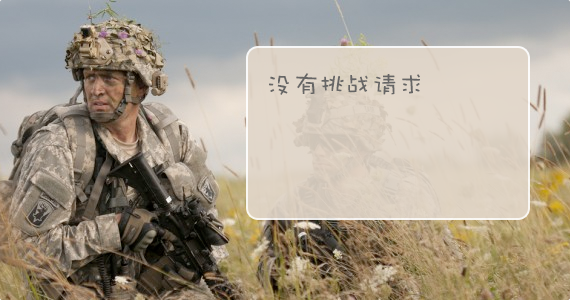
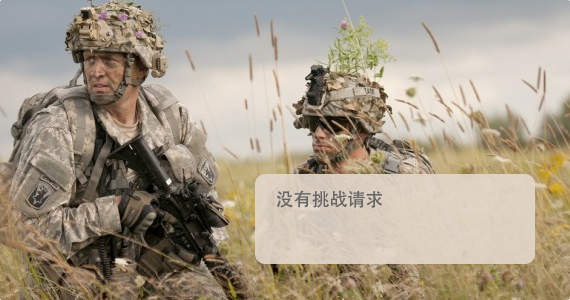
修改活动都没有时的图片

diff --git a/public/css/userpage.css b/public/css/userpage.css
@@ -719,8 +719,8 @@
 }
 .user_page .dl_container .main .campaigns_container .recent_unjoin .no_campaign .no_campaign_tip {
   position: absolute;
-  bottom: 30px;
-  left: 75px;
+  bottom: 32px;
+  left: 65px;
   font-size: 14px;
 }
 .user_page .dl_container .main .campaigns_container .recent_unjoin .no_campaign .no_campaign_tip p {
@@ -728,6 +728,7 @@
 }
 .user_page .dl_container .main .campaigns_container .recent_unjoin .no_campaign .no_campaign_tip p .dl_btn {
   border-radius: 5px;
+  padding: 7px 11px;
 }
 .user_page .dl_container .main .campaigns_container .recent_unjoin .no_campaign .no_campaign_tip p .tip_info {
   padding-left: 11px;
@@ -780,8 +781,8 @@
 }
 .user_page .dl_container .main .campaigns_container .recent_competition .no_campaign .no_campaign_tip {
   position: absolute;
-  top: 168px;
-  left: 270px;
+  top: 217px;
+  left: 275px;
   font-size: 14px;
 }
 .user_page .dl_container .main .campaigns_container .recent_competition .no_campaign .no_campaign_tip p {
@@ -790,6 +791,8 @@
 .user_page .dl_container .main .campaigns_container .recent_competition .no_campaign .no_campaign_tip p .dl_btn {
   border-radius: 5px;
   background-color: #f48361;
+  margin-left: 4px;
+  padding: 7px 17px;
 }
 .user_page .dl_container .main .campaigns_container .recent_competition .no_campaign .no_campaign_tip p .tip_info {
   padding-left: 11px;

diff --git a/public/js/controllers/timeline.js b/public/js/controllers/timeline.js
@@ -116,16 +116,12 @@ timeline.controller('timelineController',['$scope', '$http', '$location', '$root
 			anchorSmoothScroll.scrollTo(id);
 			addCampaign(id);
 		}
-		$scope.reportUser = function(){
 
-		}
-    $scope.getReport = function(comment) {
+    $scope.getReport = function() {
       $scope.reportContent = {
         hostType: 'user',
         hostContent: {
-          _id: comment._id,
-          content: comment.content,
-          poster: comment.poster
+          poster: userId
         },
         reportType: ''
       }

diff --git a/app/controllers/report.js b/app/controllers/report.js
@@ -43,7 +43,7 @@ exports.pushReport = function  (req, res) {
       report.host_type = req.body.hostType;
       report.host_id = req.body.hostContent._id;
       report.report_type = req.body.reportType;
-      report.content = req.body.hostContent.content;
+      // report.content = req.body.hostContent.content;
       report.content_poster = {
         uid:req.body.hostContent.poster._id,
         cid:req.body.hostContent.poster.cid,

diff --git a/app/controllers/campaign.js b/app/controllers/campaign.js
@@ -1128,7 +1128,7 @@ exports.getUserCampaignsForHome = function(req, res) {
       // else{
       //   _result.push(values[2].concat(values[1]));
       // }
-      // values =[[],[],[],[]];
+      //values =[[],[],[],[]];
       return res.send({ result: 1, campaigns: values });
     }
   });
